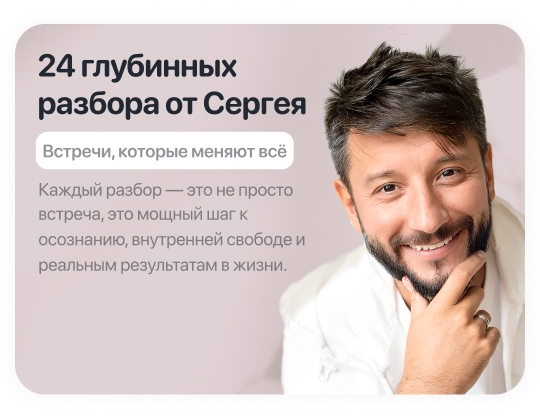
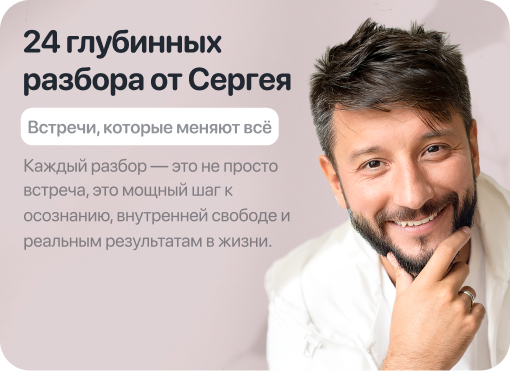
update

diff --git a/src/pages/PagePracties/index.module.scss b/src/pages/PagePracties/index.module.scss
@@ -193,5 +193,6 @@
 
 .banner {
     width: 100%;
-    aspect-ratio: 340 / 318;
+    display: block;
+    margin-bottom: 10px;
 }

diff --git a/src/pages/PageSergay/index.module.scss b/src/pages/PageSergay/index.module.scss
@@ -126,5 +126,6 @@
 
 .banner {
     width: 100%;
-    aspect-ratio: 340 / 318;
+    display: block;
+    margin-bottom: 10px;
 }

diff --git a/src/pages/PageBase/index.module.scss b/src/pages/PageBase/index.module.scss
@@ -66,5 +66,6 @@
 
 .banner {
     width: 100%;
-    aspect-ratio: 340 / 318;
+    display: block;
+    margin-bottom: 10px;
 }

diff --git a/src/pages/PageBot/index.module.scss b/src/pages/PageBot/index.module.scss
@@ -72,5 +72,6 @@
 
 .banner {
     width: 100%;
-    aspect-ratio: 340 / 318;
+    display: block;
+    margin-bottom: 10px;
 }
